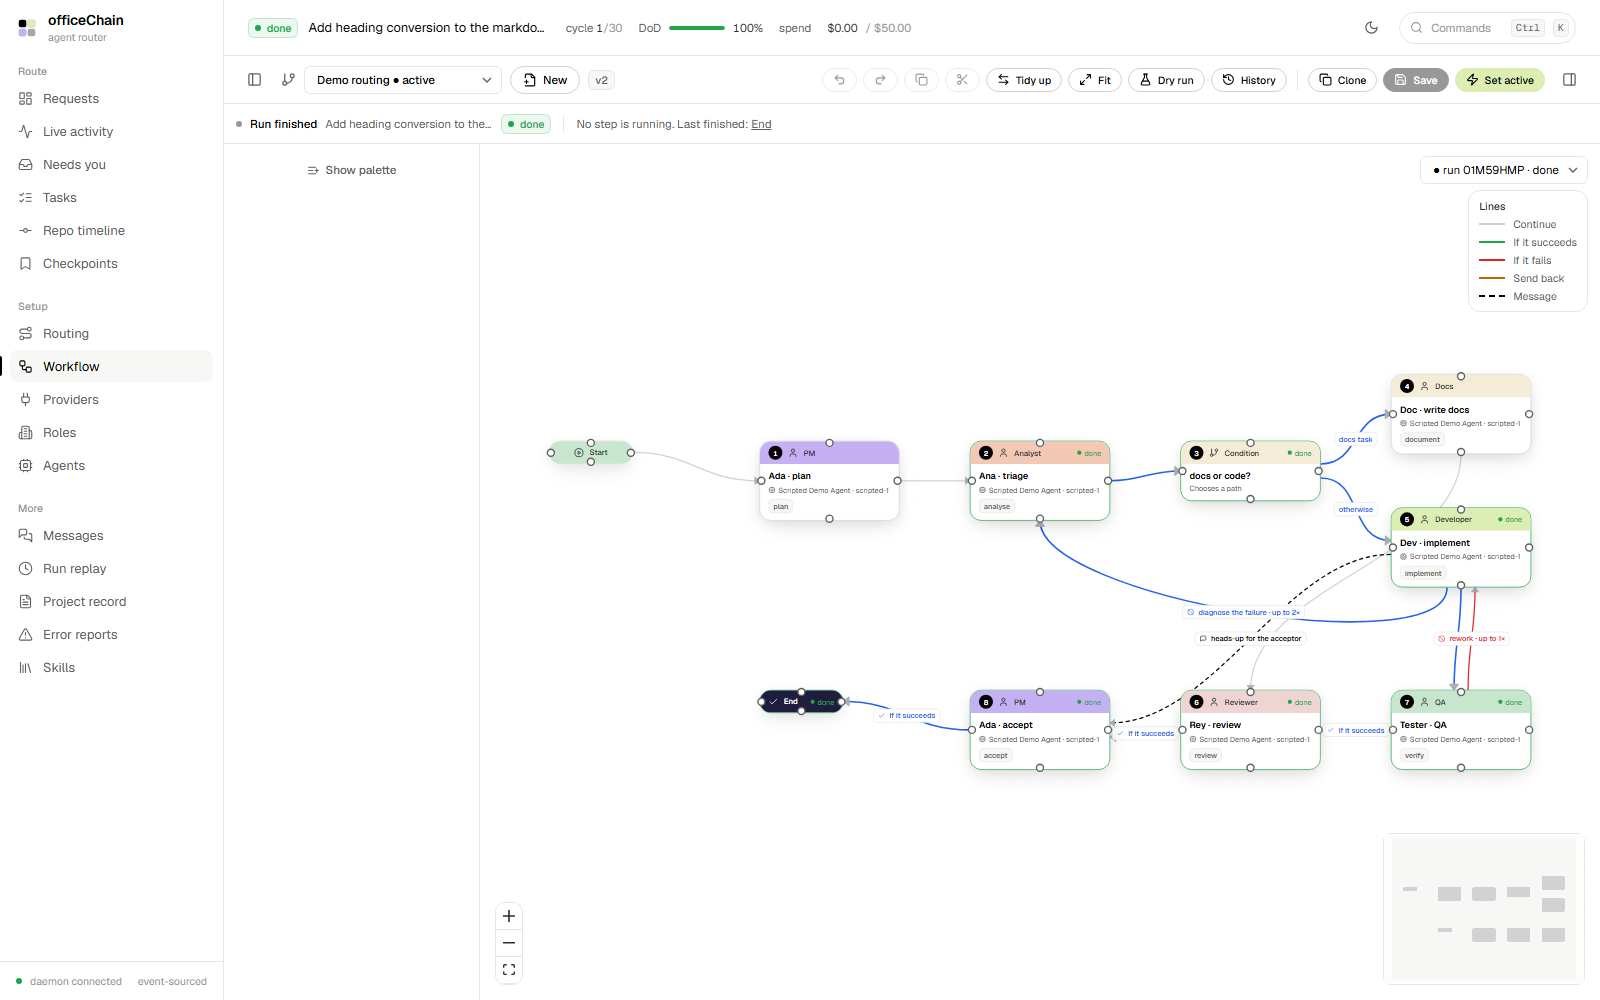
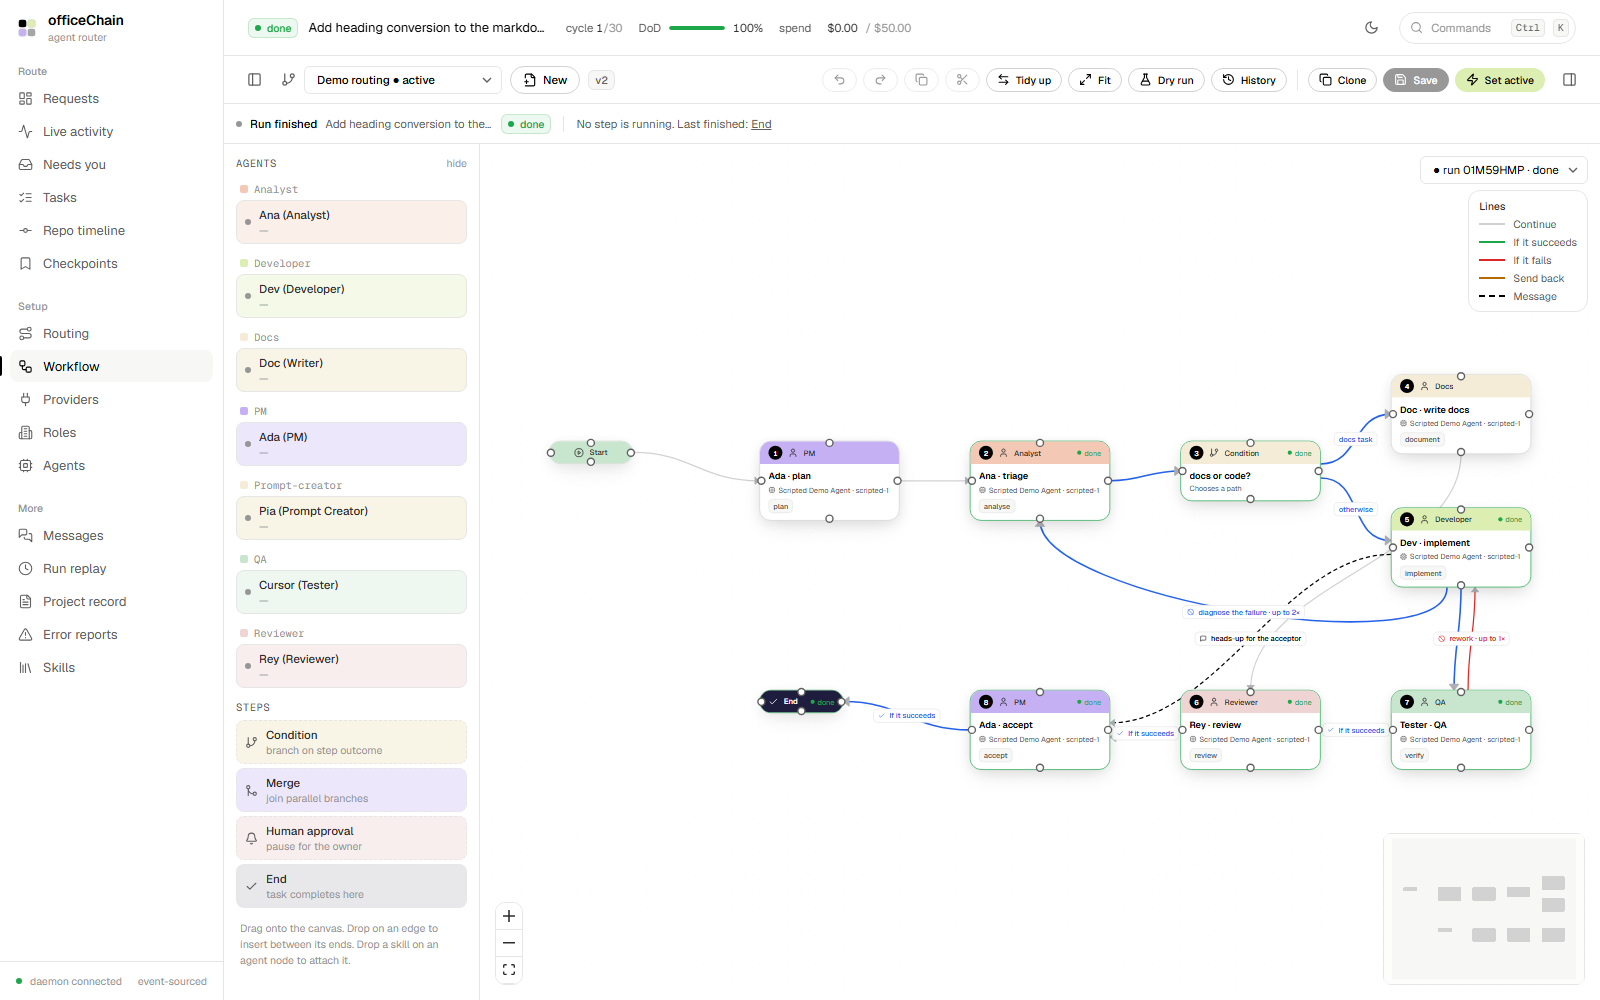
Routing: flatter step rows and a rail that meets every marker; color the Workflow palette
- Routing: neutral step rows, color only on the numbered marker, plain text
  instead of pill chips. Each row's rail line now runs from its marker centre
  to the next one, fixing the gap above nested dots.
- Workflow: agents and step types in the palette get the role colour wash.
- README screenshots updated (the Workflow one now shows the palette).

diff --git a/ui/src/pages/Routing.tsx b/ui/src/pages/Routing.tsx
@@ -189,31 +189,23 @@ function NodeRouting({ step, rv, agentFor, providers, onSaved }: { step: Routing
   );
 }
 
-// Same palette as the Workflow canvas: a step is tinted by its role, falling back to its purpose.
-type Tint = { bg: string; bar: string; soft: string };
-const T = {
-  lilac: { bg: 'bg-lilac', bar: 'border-l-lilac', soft: 'bg-lilac/25' }, cream: { bg: 'bg-cream', bar: 'border-l-cream', soft: 'bg-cream/25' },
-  lime: { bg: 'bg-lime', bar: 'border-l-lime', soft: 'bg-lime/25' }, mint: { bg: 'bg-mint', bar: 'border-l-mint', soft: 'bg-mint/25' },
-  pink: { bg: 'bg-pink', bar: 'border-l-pink', soft: 'bg-pink/25' }, coral: { bg: 'bg-coral', bar: 'border-l-coral', soft: 'bg-coral/25' },
-  navy: { bg: 'bg-navy', bar: 'border-l-navy', soft: 'bg-navy/10' }, none: { bg: 'bg-raised', bar: 'border-l-line-strong', soft: 'bg-surface' },
-} satisfies Record<string, Tint>;
-const ROLE_TINT: Record<string, Tint> = { pm: T.lilac, 'prompt-creator': T.cream, developer: T.lime, qa: T.mint, reviewer: T.pink, analyst: T.coral, docs: T.cream };
-const PURPOSE_TINT: Record<string, Tint> = {
-  plan: T.lilac, accept: T.lilac, prompt: T.cream, 'prompt-review': T.lilac, doc: T.cream, implement: T.lime, fix: T.lime,
-  qa: T.mint, test: T.mint, review: T.pink, analyse: T.coral, diagnose: T.coral,
+// Same role colours as the Workflow canvas; a step falls back to its purpose when it has no role.
+const ROLE_TINT: Record<string, string> = { pm: 'bg-lilac', 'prompt-creator': 'bg-cream', developer: 'bg-lime', qa: 'bg-mint', reviewer: 'bg-pink', analyst: 'bg-coral', docs: 'bg-cream' };
+const PURPOSE_TINT: Record<string, string> = {
+  plan: 'bg-lilac', accept: 'bg-lilac', 'prompt-review': 'bg-lilac', prompt: 'bg-cream', doc: 'bg-cream', implement: 'bg-lime', fix: 'bg-lime',
+  qa: 'bg-mint', test: 'bg-mint', review: 'bg-pink', analyse: 'bg-coral', diagnose: 'bg-coral',
 };
-function stepTint(s: RoutingStep): Tint {
-  if (s.type === 'start') return T.mint;
-  if (s.type === 'end') return T.navy;
-  if (s.type === 'condition') return T.cream;
-  if (s.type === 'merge') return T.lilac;
-  if (s.type === 'human') return T.pink;
-  return ROLE_TINT[s.role ?? ''] ?? PURPOSE_TINT[s.purpose ?? ''] ?? T.none;
+function stepTint(s: RoutingStep): string {
+  if (s.type === 'start') return 'bg-mint';
+  if (s.type === 'end') return 'bg-navy';
+  if (s.type === 'condition') return 'bg-cream';
+  if (s.type === 'merge') return 'bg-lilac';
+  if (s.type === 'human') return 'bg-pink';
+  return ROLE_TINT[s.role ?? ''] ?? PURPOSE_TINT[s.purpose ?? ''] ?? 'bg-raised';
 }
 
-// One step on the flow rail — a workflow node. Click opens it in the editor.
+// One step on the flow — a workflow node. Click opens it in the editor.
 function StepCard({ s }: { s: RoutingStep }) {
-  const tint = stepTint(s);
   const what =
     s.type === 'start' ? 'the request enters here'
     : s.type === 'end' ? 'task completes here'
@@ -221,86 +213,75 @@ function StepCard({ s }: { s: RoutingStep }) {
     : s.type === 'merge' ? 'waits for its branches'
     : s.type === 'human' ? 'pauses for you'
     : (PURPOSE_LABEL[s.purpose ?? ''] ?? s.purpose ?? 'step');
-  const chip = 'inline-flex items-center gap-1 rounded-md bg-sunken px-1.5 py-0.5 text-2xs text-fg-3';
+  const names = s.agents.map((a) => a.name).join(', ');
+  const problem = s.type !== 'agent' ? null
+    : s.agentId ? (s.agents.length ? null : 'agent deleted')
+    : s.role ? (s.agents.length ? null : `any ${s.role} — none assigned`)
+    : 'no agent or role';
+  const note = 'flex items-center gap-1.5';
   return (
     <Link
       to={`/workflow?node=${s.nodeId}`}
-      className={`block rounded-xl border border-l-4 ${tint.soft} px-3.5 py-2 text-xs hover:brightness-95 transition ${tint.bar} ${s.disabled ? 'border-line/50 opacity-55' : 'border-line'} ${s.warnings.length ? 'border-warn/60' : ''}`}
+      className={`block rounded-lg border bg-surface px-3 py-2 hover:border-line-strong ${s.disabled ? 'border-line/50 opacity-55' : 'border-line'} ${s.warnings.length ? 'border-warn/60' : ''}`}
       title={`${s.label}${s.warnings.length ? ` — ${s.warnings.join('; ')}` : ''}`}
     >
-      <div className="flex flex-wrap items-center gap-x-3 gap-y-1.5">
-        <div className="min-w-[11rem] flex-1 flex flex-wrap items-baseline gap-x-2 gap-y-0.5">
-          <span className="font-medium text-fg text-sm">{s.label}</span>
-          {s.disabled && <Tag tone="idle">bypassed</Tag>}
-          {s.type === 'merge' && <Tag tone="idle">merge</Tag>}
-          {s.type === 'human' && <Tag tone="warn">approval</Tag>}
-          <span className="text-fg-3">{what}{s.scope === 'run' && ' · once per run'}</span>
+      <div className="flex items-baseline gap-3">
+        <div className="min-w-0 flex-1 text-sm">
+          <span className="font-medium text-fg">{s.label}</span>
+          <span className="ml-2 text-xs text-fg-3">{what}{s.scope === 'run' && ' · once per run'}{s.disabled && ' · bypassed'}{s.type === 'merge' && ' · merge'}{s.type === 'human' && ' · approval'}</span>
         </div>
-        <div className="flex flex-wrap items-center justify-end gap-1">
-          {s.type === 'agent' && (
-            s.agentId
-              ? (s.agents.length ? s.agents.map((a) => <Tag key={a.id}>{a.name}</Tag>) : <Tag tone="bad">agent deleted</Tag>)
-              : s.role
-                ? (s.agents.length ? s.agents.map((a) => <Tag key={a.id}>{a.name}</Tag>) : <Tag tone="warn">any {s.role} — none assigned</Tag>)
-                : <Tag tone="warn">no agent or role</Tag>
-          )}
-          {s.modelTier && <Tag tone={TIER_TONE[s.modelTier]}>{s.modelTier}</Tag>}
-          {s.warnings.map((w, k) => <Tag key={k} tone="warn" title={w}>!</Tag>)}
+        <div className="shrink-0 text-xs text-fg-2">
+          {names}
+          {problem && <span className="text-warn">{problem}</span>}
+          {s.modelTier && <span className="ml-2 font-mono text-2xs text-fg-4">{s.modelTier}</span>}
+          {s.warnings.length > 0 && <span className="ml-2 text-warn" title={s.warnings.join('; ')}>!</span>}
         </div>
       </div>
       {(s.loops.length > 0 || s.exits.length > 0 || s.messages.length > 0) && (
-        <div className="mt-2 flex flex-wrap gap-1.5 border-t border-line/60 pt-2">
+        <ul className="mt-1 space-y-0.5 text-xs text-fg-3">
           {s.loops.map((e) => (
-            <span key={e.edgeId} className={chip}>
-              <CornerUpLeft size={10} className="shrink-0" /> {e.label ?? 'back'} → {e.toLabel}{e.maxLoops ? ` ×${e.maxLoops}` : ''}
-            </span>
+            <li key={e.edgeId} className={note}><CornerUpLeft size={11} className="shrink-0" /> {e.label ?? 'back'} → {e.toLabel}{e.maxLoops ? ` ×${e.maxLoops}` : ''}</li>
           ))}
           {s.exits.map((e) => (
-            <span key={e.edgeId} className={chip}>
-              <ArrowRight size={10} className="shrink-0" /> {e.label ?? e.kind} → {e.toLabel}
-            </span>
+            <li key={e.edgeId} className={note}><ArrowRight size={11} className="shrink-0" /> {e.label ?? e.kind} → {e.toLabel}</li>
           ))}
           {s.messages.map((e) => (
-            <span key={e.edgeId} className={`${chip} !text-info`}>
-              <Mail size={10} className="shrink-0" /> {e.label ?? 'message'} → {e.toLabel}
-            </span>
+            <li key={e.edgeId} className={`${note} text-info`}><Mail size={11} className="shrink-0" /> {e.label ?? 'message'} → {e.toLabel}</li>
           ))}
-        </div>
+        </ul>
       )}
     </Link>
   );
 }
 
-// The flow reads top to bottom along a rail: numbered steps on the main path, small dots inside a
-// branch lane. A fan-out splits into side-by-side lanes, each headed by its condition.
+// The flow reads top to bottom along a rail. Every marker's centre sits 18px below the top of its
+// row, and each row's line runs from its own marker centre to the next row's — so they always meet.
+// A fan-out splits into side-by-side lanes, each headed by its condition.
 function FlowRows({ rows, nested = false }: { rows: RoutingRow[]; nested?: boolean }) {
   let n = 0;
   return (
     <ol>
       {rows.map((r, i) => {
         const last = i === rows.length - 1;
-        const tint = r.kind === 'step' ? stepTint(r.step) : null;
-        const marker = r.kind === 'step' ? (nested ? null : ++n) : r.kind === 'back' ? 'back' : 'branch';
+        const tint = r.kind === 'step' ? stepTint(r.step) : 'bg-line-strong';
+        const num = r.kind === 'step' && !nested ? ++n : null;
         return (
-          <li key={i} className={`relative ${nested ? 'pl-6' : 'pl-10'} ${last ? '' : 'pb-3'}`}>
-            {!last && <span aria-hidden className={`absolute w-px bg-line ${nested ? 'left-[3.5px] top-5 bottom-0' : 'left-[13.5px] top-8 bottom-0'}`} />}
-            {marker === null && <span aria-hidden className={`absolute left-0 top-[16px] h-2 w-2 rounded-full border border-line-strong ${tint?.bg ?? 'bg-surface'}`} />}
-            {marker !== null && (
-              <span aria-hidden className={`absolute left-0 grid h-7 w-7 place-items-center rounded-full border border-line-strong ${tint?.bg ?? 'bg-surface'} text-2xs font-mono ${tint && tint.bg === 'bg-navy' ? 'text-white' : 'text-fg'} ${nested ? 'top-0.5' : 'top-1'}`}>
-                {marker === 'back' ? <CornerUpLeft size={12} /> : marker === 'branch' ? <GitBranch size={12} /> : marker}
-              </span>
-            )}
+          <li key={i} className={`relative ${nested ? 'pl-5' : 'pl-9'} ${last ? '' : 'pb-2.5'}`}>
+            {!last && <span aria-hidden className={`absolute w-px -bottom-[18px] top-[18px] bg-line-strong ${nested ? 'left-[3.5px]' : 'left-[11.5px]'}`} />}
+            {nested
+              ? <span aria-hidden className={`absolute left-0 top-[14px] h-2 w-2 rounded-full ${tint}`} />
+              : (
+                <span aria-hidden className={`absolute left-0 top-1.5 grid h-6 w-6 place-items-center rounded-full text-2xs font-mono ${r.kind === 'step' ? `${tint} ${tint === 'bg-navy' ? 'text-white' : 'text-fg'}` : 'border border-line-strong bg-surface text-fg-3'}`}>
+                  {r.kind === 'back' ? <CornerUpLeft size={11} /> : r.kind === 'branches' ? <GitBranch size={11} /> : num}
+                </span>
+              )}
             {r.kind === 'step' && <StepCard s={r.step} />}
-            {r.kind === 'back' && (
-              <div className="inline-flex items-center gap-1 rounded-lg border border-dashed border-line-strong px-2.5 py-1.5 text-xs text-fg-3">
-                back to <b className="font-medium text-fg-2">{r.toLabel}</b>
-              </div>
-            )}
+            {r.kind === 'back' && <div className="py-1.5 text-xs text-fg-3">back to <span className="font-medium text-fg-2">{r.toLabel}</span></div>}
             {r.kind === 'branches' && (
               <div className={`grid gap-3 ${r.lanes.length > 1 && !nested ? 'lg:grid-cols-2' : ''}`}>
                 {r.lanes.map((l) => (
-                  <div key={l.edgeId} className="min-w-0 rounded-xl border border-dashed border-line-strong bg-sunken/40 p-3">
-                    <div className="mb-3"><Tag tone={l.isElse ? 'idle' : 'info'}>{l.label}</Tag></div>
+                  <div key={l.edgeId} className="min-w-0 rounded-lg border border-line p-3">
+                    <div className="mb-2.5 text-2xs font-mono uppercase tracking-wide text-fg-3">{l.label}</div>
                     <FlowRows rows={l.rows} nested />
                   </div>
                 ))}

diff --git a/ui/src/pages/Workflow.tsx b/ui/src/pages/Workflow.tsx
@@ -66,6 +66,13 @@ const ROLE_TINT: Record<string, string> = {
   reviewer: 'bg-pink', analyst: 'bg-coral', docs: 'bg-cream',
 };
 
+// Palette entries: a soft wash of the same colours, so the list matches the nodes it creates.
+const ROLE_SOFT: Record<string, string> = {
+  pm: 'bg-lilac/30', 'prompt-creator': 'bg-cream/60', developer: 'bg-lime/30', qa: 'bg-mint/30',
+  reviewer: 'bg-pink/40', analyst: 'bg-coral/30', docs: 'bg-cream/60',
+};
+const STEP_SOFT: Record<string, string> = { condition: 'bg-cream/60', merge: 'bg-lilac/30', human: 'bg-pink/40', end: 'bg-navy/10' };
+
 const TYPE_ICON: Record<WfNodeType, React.ReactNode> = {
   start: <CirclePlay size={14} />, end: <Check size={14} />, agent: <User size={14} />,
   condition: <GitBranch size={14} />, merge: <GitMerge size={14} />, human: <Bell size={14} />,
@@ -268,13 +275,13 @@ function Palette({ agents, roles, wsId, skills }: { agents: AgentRow[]; roles: R
       </div>
       {byRole.map(([role, list]) => (
         <div key={role}>
-          <div className="px-1 text-2xs font-mono text-fg-4 mb-1">{roleLabel(role)}</div>
+          <div className="px-1 text-2xs font-mono text-fg-4 mb-1 flex items-center gap-1.5"><span className={`h-2 w-2 rounded-sm ${ROLE_TINT[role] ?? 'bg-raised'}`} />{roleLabel(role)}</div>
           <div className="space-y-1">
             {list.map((a) => (
               <div
                 key={a.id} draggable
                 onDragStart={drag({ type: 'agent', agentId: a.id, role, label: `${a.name}` })}
-                className="flex items-center gap-2 px-2 py-1.5 rounded-lg border border-line bg-raised cursor-grab active:cursor-grabbing hover:border-line-strong transition-colors"
+                className={`flex items-center gap-2 px-2 py-1.5 rounded-lg border border-line ${ROLE_SOFT[role] ?? 'bg-raised'} cursor-grab active:cursor-grabbing hover:border-line-strong transition-colors`}
                 title="Drag onto the canvas — drop on an edge to insert"
               >
                 <Dot tone={a.status === 'working' ? 'ok' : 'idle'} live={a.status === 'working'} />
@@ -295,7 +302,7 @@ function Palette({ agents, roles, wsId, skills }: { agents: AgentRow[]; roles: R
             <div
               key={g.type} draggable
               onDragStart={drag({ type: g.type, label: g.label })}
-              className="flex items-center gap-2 px-2 py-1.5 rounded-lg border border-dashed border-line bg-raised/50 cursor-grab active:cursor-grabbing hover:border-line-strong transition-colors"
+              className={`flex items-center gap-2 px-2 py-1.5 rounded-lg border border-dashed border-line ${STEP_SOFT[g.type] ?? 'bg-raised/50'} cursor-grab active:cursor-grabbing hover:border-line-strong transition-colors`}
               title={g.hint}
             >
               <span className="text-fg-3">{g.icon}</span>

diff --git a/README.md b/README.md
@@ -42,12 +42,12 @@ Because the engine is deterministic and event-sourced, every agent — including
 ## Screenshots
 
 ### Workflow editor
-Build or clone a pipeline as a graph. When a run is selected, node rings and taken edges show what actually executed.
+Build or clone a pipeline as a graph; the palette on the left is colored by role, matching the nodes it creates. When a run is selected, node rings and taken edges show what actually executed.
 
 <img src="docs/screenshots/workflow.png" alt="Workflow editor showing a custom graph with a condition branch, loops and a message edge, with node states from a finished run" width="900">
 
 ### Routing
-The flow is derived from the saved active workflow and reads top to bottom: numbered steps, branch lanes with their conditions, and loop, send-back and message links on each step. Per-node model tier and budget overrides sit below it.
+The flow is derived from the saved active workflow and reads top to bottom: numbered steps colored by role, branch lanes with their conditions, and loop, send-back and message links on each step. Per-node model tier and budget overrides sit below it.
 
 <img src="docs/screenshots/routing.png" alt="Routing page showing the active workflow as a numbered vertical flow with a two-lane branch, followed by per-agent model options" width="900">
 
